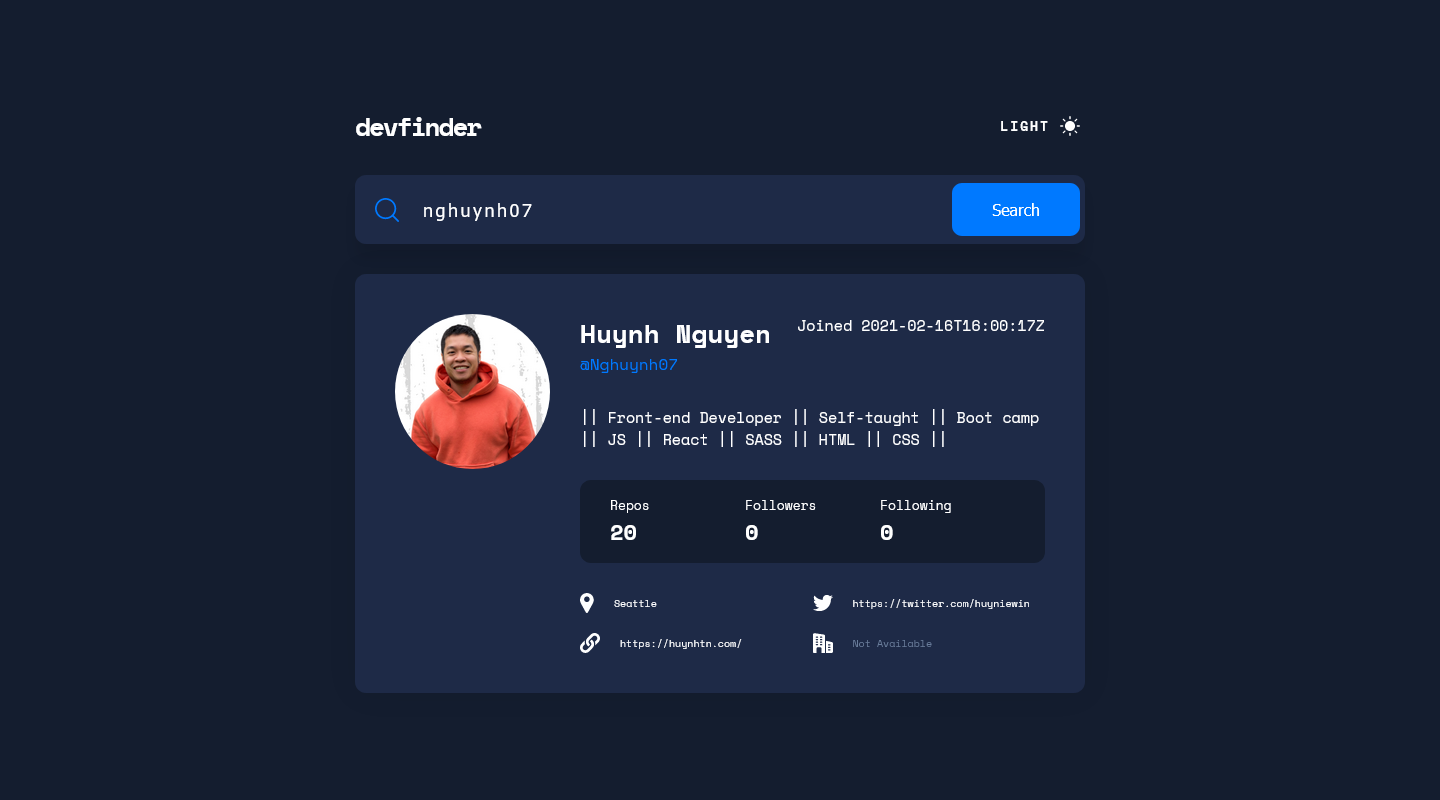
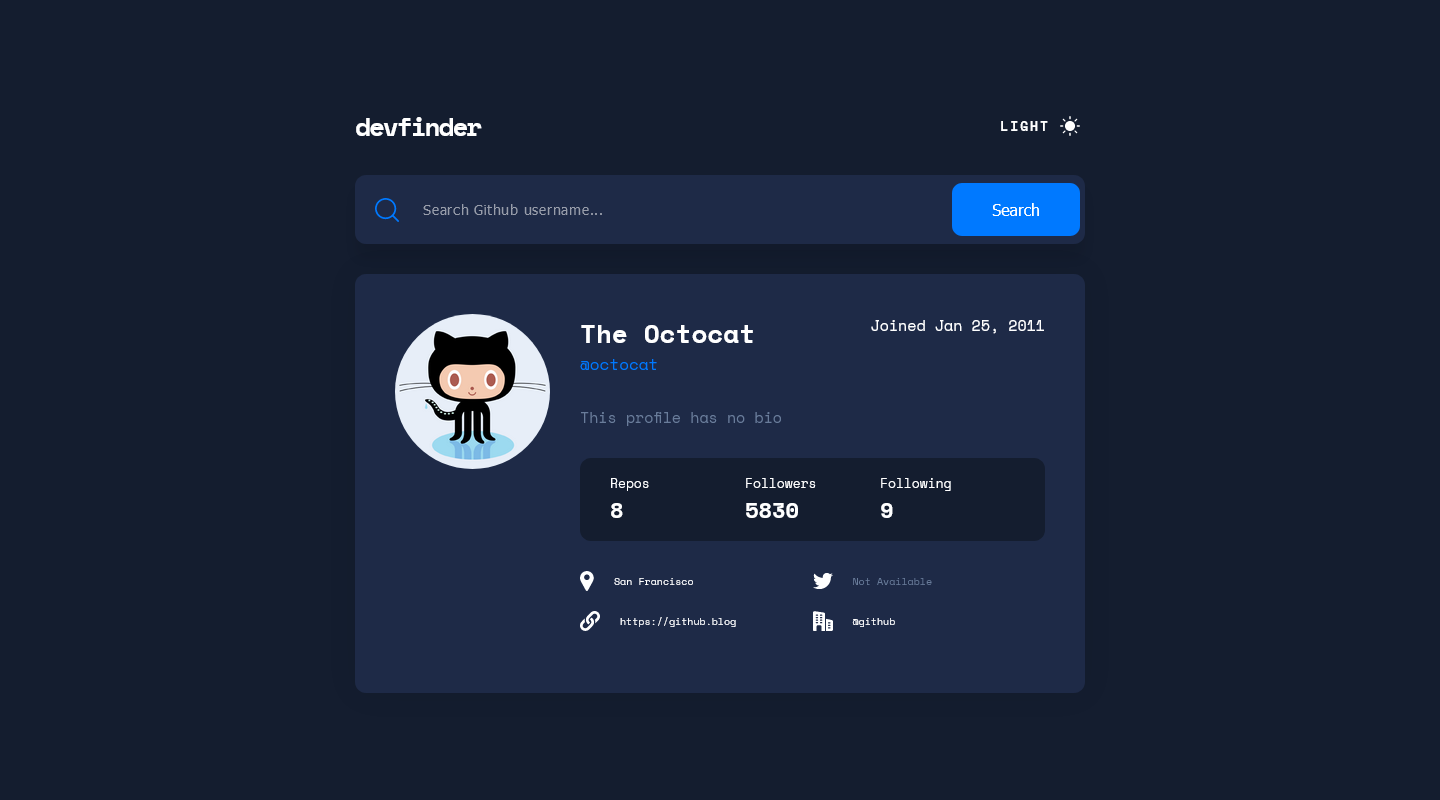
deploy

diff --git a/src/App.js b/src/App.js
@@ -9,12 +9,11 @@ function App() {
   const [user, setUser] = useState({});
   const [change, setChange] = useState(false);
   const [input, setInput] = useState("");
-
+  const [error, setError] = useState("");
   const getUser = async (search) => {
     const octokit = new Octokit();
     try {
       const me = await octokit.request(`GET /users/${`octocat` || { search }}`);
-      console.log(me);
       const userData = { ...me.data };
       setUser(userData);
     } catch (err) {
@@ -26,12 +25,19 @@ function App() {
     e.preventDefault();
     const octokit = new Octokit();
     try {
+      if (!input) {
+        setError("No Result");
+      }
+
       const me = await octokit.request(`GET /users/${input}`);
 
       const userData = { ...me.data };
       setUser(userData);
     } catch (err) {
-      console.log(err);
+      // console.log(err.status);
+      if (error.status === "404") {
+        setError("No Result");
+      }
     }
   };
   const onChange = (e) => {
@@ -40,6 +46,7 @@ function App() {
 
   const toggleTheme = (e) => {
     e.preventDefault();
+    e.stopPropagation();
     setChange(!change);
   };
 
@@ -56,6 +63,7 @@ function App() {
           onSubmit={onSubmit}
           onChange={onChange}
           user={user}
+          error={error}
         />
         <BottomComponent user={user} change={change} />
       </DevFinder>

diff --git a/src/components/MiddleComponent.js b/src/components/MiddleComponent.js
@@ -9,7 +9,7 @@ import {
 } from "../style-components/middleStyledComponents";
 import React from "react";
 
-const MiddleComponent = ({ change, onSubmit, onChange, user }) => {
+const MiddleComponent = ({ change, onSubmit, onChange, user, error }) => {
   return (
     <>
       {/* MID STARTS */}
@@ -29,9 +29,8 @@ const MiddleComponent = ({ change, onSubmit, onChange, user }) => {
               onChange={onChange}
               placeholder='Search Github username...'
             />
-            {user && ""}
 
-            {!user && <SearchResultText>No Result</SearchResultText>}
+            {<SearchResultText>{error}</SearchResultText>}
           </InputContainer>
           <Button type='submit'>Search</Button>
         </Form>

diff --git a/src/components/BottomComponent.js b/src/components/BottomComponent.js
@@ -19,6 +19,12 @@ import {
 import React from "react";
 
 const BottomComponent = ({ user, change }) => {
+  const date = new Date(user.created_at).toLocaleDateString("en-us", {
+    day: "numeric",
+    month: "short",
+    year: "numeric",
+  });
+
   return (
     <>
       {/* BOTTOM STARTS */}
@@ -42,7 +48,7 @@ const BottomComponent = ({ user, change }) => {
                 </MainSectionOneH1>
                 <Octocat href={user.html_url}>@{user.login}</Octocat>
               </div>
-              <Joined change={change}>Joined {user.created_at}</Joined>
+              <Joined change={change}>Joined {date}</Joined>
             </MainSectionOneWrapper>
           </MainSectionOne>
           {user.bio ? (

diff --git a/src/components/TopComponent.js b/src/components/TopComponent.js
@@ -9,9 +9,9 @@ const TopComponent = ({ toggleTheme, change }) => {
   return (
     <>
       {/* TOP STARTS */}
-      <Top className='top' onClick={toggleTheme} change={change}>
+      <Top className='top' change={change}>
         <TopHeading change={change}>devfinder</TopHeading>
-        <TopToggle className='toggle'>
+        <TopToggle className='toggle' onClick={toggleTheme}>
           <TopH4 className='dark' change={change}>
             {change ? "Light" : "Dark"}
           </TopH4>

diff --git a/src/index.css b/src/index.css
@@ -37,6 +37,15 @@ html {
   font-family: "Space Mono", monospace;
 }
 
+.day {
+  background-color: var(--main-background-color);
+  color: var(--black-color);
+}
+.night {
+  background-color: var(--secondary-color);
+  color: var(--white-color);
+}
+
 .mobile-avatar {
   width: 100%;
   border-radius: 50%;

diff --git a/README.md b/README.md
@@ -42,7 +42,7 @@ Users should be able to:
 ### Links
 
 - Solution URL: [Add solution URL here](https://github.com/Nghuynh07/github_user_search)
-- Live Site URL: [Add live site URL here](https://your-live-site-url.com)
+- Live Site URL: [Add live site URL here](https://unique-blini-71039f.netlify.app/)
 
 ## My process
 
@@ -61,9 +61,9 @@ Users should be able to:
 - I learned about styled components and passing in props
 - Also my first time attempting dark/light mode and style component with react useState hook makes it easier to do
 
-<!-- - **Bonus**: Have the correct color scheme chosen for them based on their computer preferences. _Hint_: Research `prefers-color-scheme` in CSS. -->
-
 ### Continued development
+
+- I did not attempt to do the "prefers-color-scheme". This is something that will need to come back to after I have more time to play around with it.
 
 ### Useful resources
 
